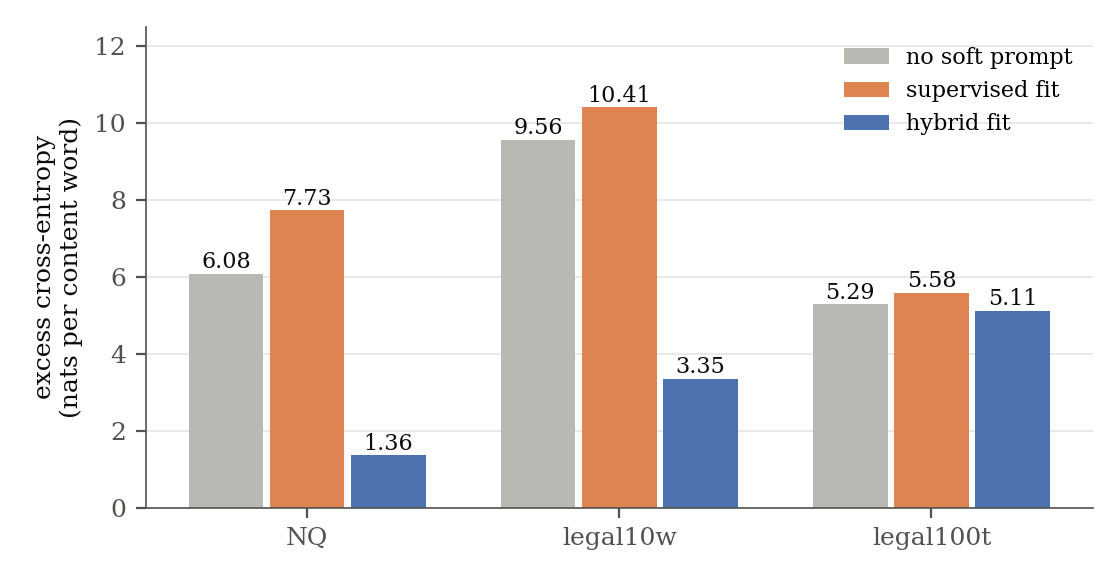
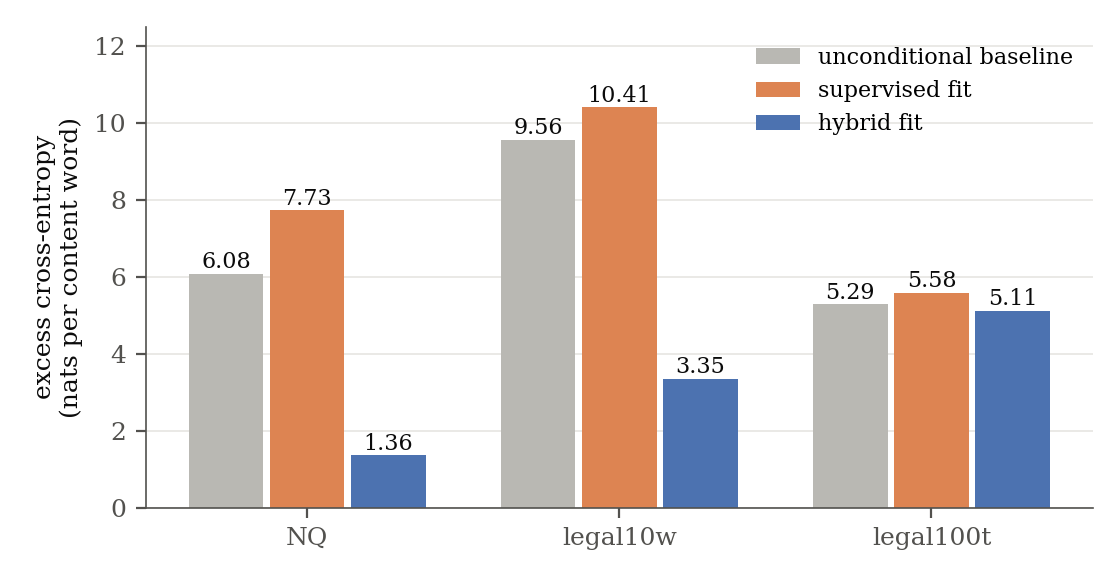
composition and decoder-prediction text rewritten, unconditional baseline named, rewriting result as a figure

Changed region(s): [[0.6562, 0.0621, 0.9688, 0.2483]]

diff --git a/chapters/ch4_weak_supervised_attack/s8_decoder_predictions.tex b/chapters/ch4_weak_supervised_attack/s8_decoder_predictions.tex
@@ -4,29 +4,29 @@ Both terms of the objective in Equation~\ref{eq:attack:loss} pull mapped states 
 The mapped states then form the soft prompt of a frozen decoder, and the decoder reconstructs the prompt one token at a time.
 The objective therefore measures agreement with hub outputs, while reconstruction depends on the decoder's predictions.
 
-To examine those predictions, the same decoder runs twice on each prompt.
-The reference run receives a soft prompt from the hub outputs of OLMo, and the mapped-state run receives a soft prompt from the mapped states of the target model.
-Both runs receive the true previous tokens, a setting called teacher forcing, and assign a probability to every candidate next token.
+To examine those predictions, each decoder runs under teacher forcing.
+The decoder receives the true previous tokens and predicts the next token.
+Cross-entropy scores that prediction, and a lower value means a better prediction of the true token.
 
-Two scores compare the runs.
-The excess cross-entropy is the cross-entropy of the true next token in the mapped-state run minus that in the reference run.
-The KL divergence from the reference run to the mapped-state run compares the two next-token distributions over all candidate tokens.
-Both scores are summed over the tokens of each word and averaged over content words, the words outside a stop-word list, across the selection prompts, the three decoders, and three fits.
-The averages are reported in nats per content word. % src: teacher_forced_run.py (lines 62-68: -logp at the true token; KL(reference || mapped) = sum q (log q - log p)); teacher_forced_summary.py (lines 82-136: per-word sums, content words, pooling over prompts, decoders, seeds)
+The decoder runs with three kinds of soft prompt.
+The reference soft prompt comes from the hub outputs of OLMo.
+The mapped soft prompt comes from the mapped states of the target model, under the supervised fit or the hybrid fit.
+The unconditional baseline has no soft prompt, so the decoder acts as a plain language model on the true previous tokens. % src: teacher_forced_run.py (arm no_memory: empty prefix, start token then true tokens)
+The excess cross-entropy of a run is its cross-entropy minus that of the reference run.
+Cross-entropy is summed over the tokens of each word and averaged over content words, the words outside a stop-word list, across the selection prompts, the three decoders, and three fits. % src: teacher_forced_run.py (lines 62-68: -logp at the true token; KL(reference || mapped) = sum q (log q - log p)); teacher_forced_summary.py (lines 82-136: per-word sums, content words, pooling over prompts, decoders, seeds)
 
-%% BIG CHANGE (2026-11-18): the section now reports the setting of the main comparison (90-row leak, alpha 0.9, tau 2d, B 8,192) on all three datasets. At that setting the hybrid fit has the lower excess cross-entropy on every dataset; the earlier reversal on legal100t (alpha 0.95, 856 rows) does not appear, so the closing sentence changed.
 \paragraph{The matching term and the decoder.} At the \vf{90}-row leak, the hybrid fit has the lower excess cross-entropy on all three datasets (Figure~\ref{fig:attack:ce}).
-The excess cross-entropy falls from \vf{7.73} nats under the supervised fit to \vf{1.36} on NQ, from \vf{10.41} to \vf{3.35} on legal10w, and from \vf{5.58} to \vf{5.11} on legal100t. % src: results/{v7_2,legal10w/v7_2,legal128w/v7_2}/main/framework/teacher_forced-w46/summary.json arms.{b90-a1-r1-L90-span9, b90-a0.9-sq-m0-t*-r1-B8192-L90-span9}.classes.content.excess_per_word (7.7341, 1.3621; 10.4136, 3.3521; 5.5825, 5.1133), 500 selection prompts, three fits pooled
-A decoder with no soft prompt has an excess cross-entropy of \vf{6.08} on NQ and \vf{9.56} on legal10w, and both values are below the supervised fit. % src: same files, arms.no_memory (6.0751, 9.5643, 5.2908)
-On legal100t the fall is small, and the hybrid fit, at \vf{5.11}, stays close to a decoder with no soft prompt, at \vf{5.29}.
-The KL divergence follows the excess cross-entropy within \vf{0.3} nats in every case. % src: same files, kl_per_word (largest difference 0.252, NQ supervised fit)
-The matching term therefore improves the decoder's next-token predictions on every dataset, and the improvement is smallest on legal100t, where word-F1 is lowest.
+The excess falls from \vf{7.73} nats per content word under the supervised fit to \vf{1.36} on NQ, from \vf{10.41} to \vf{3.35} on legal10w, and from \vf{5.58} to \vf{5.11} on legal100t. % src: results/{v7_2,legal10w/v7_2,legal128w/v7_2}/main/framework/teacher_forced-w46/summary.json arms.{b90-a1-r1-L90-span9, b90-a0.9-sq-m0-t*-r1-B8192-L90-span9}.classes.content.excess_per_word (7.7341, 1.3621; 10.4136, 3.3521; 5.5825, 5.1133), 500 selection prompts, three fits pooled
+The unconditional baseline separates the two fits.
+The supervised fit is above the baseline on every dataset, so its soft prompt predicts the true tokens worse than no soft prompt. % src: same files, arms.no_memory (6.0751, 9.5643, 5.2908)
+The hybrid fit is below the baseline on every dataset, by a wide margin on NQ and legal10w and by \vf{0.18} nats on legal100t.
+The matching term therefore improves the decoder's next-token predictions on every dataset, and least on legal100t, where word-F1 is also lowest.
 
 \begin{figure}[ht]
 \centering
 \includegraphics[width=0.8\textwidth]{ch4/cross_entropy}
 \caption{Under teacher forcing, the hybrid fit has a lower excess cross-entropy than the supervised fit on all three datasets.
-Excess cross-entropy in nats per content word at the \vf{90}-row leak, \vf{500} selection prompts, three decoders, three fits; the gray bar is a decoder with no soft prompt.
+Excess cross-entropy in nats per content word at the \vf{90}-row leak, \vf{500} selection prompts, three decoders, three fits; the gray bar is the unconditional baseline, the decoder with no soft prompt.
 Hybrid fit of the main comparison ($\alpha = 0.9$, $\tau = 2d$, $B = 8{,}192$).}
 \label{fig:attack:ce}
 \end{figure}

diff --git a/figures/scripts/make_figures.py b/figures/scripts/make_figures.py
@@ -196,33 +196,38 @@ def standard():
 
 
 def rewriting():
-    """Word-F1 before and after the second-round language model, 450 selection prompts, seed 1."""
-    files = [
-        ("NQ\n92 rows", "results/v7_2/main/framework/attacker/attacker-b10-a0.95-sq-m0-t0.1152-r1-B8192-s1-haiku.json"),
-        ("legal128w\n856 rows", "results/legal128w/v7_2/main/framework/attacker/attacker-b10-a0.95-sq-m0-t0.1297-r1-B8192-s1-haiku.json"),
-        ("legal128w\n8,612 rows", "results/legal128w/v7_2/main/framework/attacker/attacker-b100-a0.95-sq-m0-t0.1297-r1-B8192-s1-haiku.json"),
+    """Word-F1 before and after the second-round language model on legal10w, 90-row leak, 450 selection prompts."""
+    d = load("results/legal10w/v7_2/main/framework/attacker/attacker-b90-a0.9-sq-m0-t0.1476-r1-B8192-L90-span9-s1-haiku.json")
+    assert d["prompts_reported"] == 450 and d["model"].startswith("claude-haiku")
+    t = d["table"]
+    smollm = 0.6839  # SmolLM alone, recomputed from the endpoint decoding on the same 450 prompts (not stored in the file)
+    groups = [
+        ("hybrid fit", [("decoders, mean of three", INK2, t["hybrid rung B"]["word_f1"]["before"]),
+                        ("SmolLM decoder alone", "#b9b8b3", smollm),
+                        ("rewrite of one reconstruction", BLUE, t["hybrid rung A"]["word_f1"]["after"]),
+                        ("rewrite of three reconstructions", ORANGE, t["hybrid rung B"]["word_f1"]["after"])]),
+        ("mismatched-prompt control", [("decoders, mean of three", INK2, t["wrong memory rung B"]["word_f1"]["before"]),
+                                       ("rewrite of one reconstruction", BLUE, t["wrong memory rung A"]["word_f1"]["after"]),
+                                       ("rewrite of three reconstructions", ORANGE, t["wrong memory rung B"]["word_f1"]["after"])]),
     ]
-    series = [("decoders, mean of three", INK2), ("rewrite of one reconstruction", BLUE), ("rewrite of three reconstructions", ORANGE)]
-    fig, ax = plt.subplots(figsize=(5.2, 2.9))
-    width = 0.26
-    for i, (name, rel) in enumerate(files):
-        d = load(rel)
-        assert d["prompts_reported"] == 450 and d["model"].startswith("claude-haiku")
-        a, b = d["table"]["hybrid rung A"]["word_f1"], d["table"]["hybrid rung B"]["word_f1"]
-        vals = [b["before"], a["after"], b["after"]]
-        for k, ((label, color), v) in enumerate(zip(series, vals)):
-            x = i + (k - 1) * width
-            ax.bar(x, v, width * 0.92, color=color, alpha=0.85, label=label if i == 0 else None)
+    fig, ax = plt.subplots(figsize=(5.4, 2.9))
+    width, centers, seen = 0.2, [], set()
+    for i, (name, barsg) in enumerate(groups):
+        x0 = i * 1.15
+        centers.append(x0)
+        for k, (label, color, v) in enumerate(barsg):
+            x = x0 + (k - (len(barsg) - 1) / 2) * width
+            ax.bar(x, v, width * 0.92, color=color, alpha=0.9, label=None if label in seen else label)
+            seen.add(label)
             ax.annotate(f"{v:.2f}", (x, v), xytext=(0, 2), textcoords="offset points", ha="center", fontsize=8)
-        print(name.replace("\n", " "), [round(v, 4) for v in vals])
-    ax.set_xticks(range(len(files)))
-    ax.set_xticklabels([f[0] for f in files])
-    ax.set_ylim(0, 1.38)
-    ax.set_yticks([0, 0.2, 0.4, 0.6, 0.8, 1.0])
+        print(name, [round(v, 4) for _, _, v in barsg])
+    ax.set_xticks(centers)
+    ax.set_xticklabels([g[0] for g in groups])
+    ax.set_ylim(0, 1.0)
     ax.set_ylabel("word-F1")
     ax.grid(axis="y")
     ax.set_axisbelow(True)
-    ax.legend(loc="upper left", fontsize=7.5, ncol=1)
+    ax.legend(loc="upper right", fontsize=7.5)
     fig.tight_layout()
     save(fig, "ch4/rewriting")
 
@@ -236,7 +241,7 @@ def cross_entropy():
     ]
     fig, ax = plt.subplots(figsize=(5.6, 2.9))
     width, step = 0.26, 1.0
-    series = (("no soft prompt", "#b9b8b3"), ("supervised fit", SUPERVISED), ("hybrid fit", HYBRID))
+    series = (("unconditional baseline", "#b9b8b3"), ("supervised fit", SUPERVISED), ("hybrid fit", HYBRID))
     for i, (name, rel, tau) in enumerate(panels):
         arms = load(rel)["arms"]
         get = lambda key: arms[key]["classes"]["content"]["excess_per_word"]

diff --git a/chapters/ch4_weak_supervised_attack/s9_rewriting.tex b/chapters/ch4_weak_supervised_attack/s9_rewriting.tex
@@ -11,13 +11,20 @@ The language model receives no hidden state and no part of the true prompt.
 The experiment covers \vf{450} of the \vf{500} selection prompts, and the instruction was selected on the other \vf{50}. % src: same file (prompts_reported 450); attacker_run.py (selection sample: first 50 prompt ids)
 Word-F1 in this section is computed on lower-cased words without edge punctuation, so its values are not comparable with those of the other sections.
 
-%% BIG CHANGE (2026-11-18): the table is replaced by prose on its one row at the setting of the main comparison; the rows for NQ and legal100t ran at alpha 0.95 on leaks of whole prompts and are cut below, pending a rerun at 90 rows.
-\paragraph{Result.} Rewriting raises word-F1 from \vf{0.627}, the mean of the three reconstructions, to \vf{0.745}, a gain of \vf{0.117} with a \vf{95} percent interval of \vf{0.104} to \vf{0.130} from a paired bootstrap over prompts. % src: same file, table."hybrid rung B".word_f1 (0.6273, 0.7446, +0.1173 [0.1041, 0.1303]); run 2026-11-17, 4,500 calls
-SmolLM alone scores \vf{0.684}, so the gain over the best single decoder is \vf{0.06}, and that gain carries no interval. % src: per-decoder scores recomputed from the endpoint decoding on the 450 prompts (SmolLM 0.6839, OLMo 0.6176, Qwen 0.5804)
-Given one reconstruction, the language model changes word-F1 by \vf{0.003}, averaged over the three decoders. % src: same file, table."hybrid rung A".word_f1 (0.6273, 0.6305, +0.0032 [-0.0041, 0.0100])
-Rewriting therefore gains more with \vf{3} reconstructions than with \vf{1}.
-Under the mismatched-prompt control, rewriting moves word-F1 only from \vf{0.078} to \vf{0.082}, so the gain depends on the prompt's own reconstructions. % src: same file, table."wrong memory rung B".word_f1 (0.0783, 0.0817)
-Entity recall, the share of the true prompt's named entities that appear in the output, rises from \vf{0.17} to \vf{0.21}. % src: same file, table."hybrid rung B".entity_recall (0.1695, 0.2143, +0.045 [0.019, 0.074])
+\paragraph{Result.} Rewriting three reconstructions raises word-F1 from \vf{0.627}, the mean of the three decoders, to \vf{0.745} (Figure~\ref{fig:attack:rewriting}). % src: same file, table."hybrid rung B".word_f1 (0.6273, 0.7446, +0.1173 [0.1041, 0.1303]); run 2026-11-17, 4,500 calls
+The gain is \vf{0.117}, with a \vf{95} percent interval of \vf{0.104} to \vf{0.130} from a paired bootstrap over prompts.
+The figure shows three comparisons beside that gain.
+SmolLM alone scores \vf{0.684}, so rewriting also exceeds the best single decoder, by \vf{0.06}, and that gain carries no interval. % src: per-decoder scores recomputed from the endpoint decoding on the 450 prompts (SmolLM 0.6839, OLMo 0.6176, Qwen 0.5804)
+Rewriting one reconstruction leaves word-F1 at \vf{0.63}, so the gain needs all three reconstructions. % src: same file, table."hybrid rung A".word_f1 (0.6273, 0.6305, +0.0032 [-0.0041, 0.0100])
+Under the mismatched-prompt control, word-F1 stays at \vf{0.08}, so the gain depends on the prompt's own reconstructions. % src: same file, table."wrong memory rung B".word_f1 (0.0783, 0.0817)
+
+\begin{figure}[ht]
+\centering
+\includegraphics[width=0.8\textwidth]{ch4/rewriting}
+\caption{Rewriting three reconstructions raises word-F1 on legal10w from \vf{0.63} to \vf{0.74}, above the best single decoder, and adds nothing under the mismatched-prompt control.
+Word-F1 on lower-cased words without edge punctuation, \vf{450} selection prompts, hybrid fit of the main comparison at the \vf{90}-row leak, rewriting by Claude Haiku~\vf{5.5}.}
+\label{fig:attack:rewriting}
+\end{figure}
 
 % CUT 2026-11-18, pending a rerun at the 90-row leak and alpha 0.9 (the rows of the former table):
 % NQ, \vf{92} rows & \vf{0.727} & \vf{0.854} & \vf{0.861} & \vf{$+0.134$} [\vf{0.124}, \vf{0.145}] \\ % src: attacker-b10-a0.95-sq-m0-t0.1152-r1-B8192-s1-haiku.json table."hybrid rung B".word_f1 (0.7271, 0.8610, +0.1339 [0.1237, 0.1449]); SmolLM alone recomputed from the per-prompt records (0.8539)

diff --git a/chapters/ch4_weak_supervised_attack/s7_where_gain_holds.tex b/chapters/ch4_weak_supervised_attack/s7_where_gain_holds.tex
@@ -12,19 +12,23 @@ The result covers \vf{22} blind maps, one target model, and one dataset, and it 
 
 \subsection{Composition of the leak}\label{sec:attack:leak}
 
-At a fixed number of rows, a leak spread over more prompts yields a higher word-F1 than a leak drawn from \vf{2} prompts (Figure~\ref{fig:attack:shape}).%% BIG CHANGE: new sentence (2026-11-17), why the composition comparison sits on legal128w.
-The comparison runs on legal100t, the one dataset whose prompts are long enough to vary the rows per prompt at a fixed number of rows.
-%% BIG CHANGE (2026-11-18): the comparison now runs at the setting of the main comparison (alpha 0.9, tau 2d); the scores changed (2 prompts 0.178 to 0.255, stop words 0.058 to 0.115).
-At the setting of the main comparison, the hybrid fit scores \vf{0.328} with \vf{1} row from each of \vf{90} prompts, \vf{0.299} with \vf{9} consecutive rows from each of \vf{10} prompts, and \vf{0.255} with \vf{90} rows from \vf{2} prompts. % src: results/legal128w/v7_2/main/mixed-w46-std-L90-composition.json seeds.1.cells (L90-random 0.3284, L90-prefix 0.2546; supervised 0.1084, 0.0487); mixed-w46-std.json seeds.1.cells (L90-span9 0.2993; supervised 0.0938)
-The supervised fit rises with the number of prompts as well, from \vf{0.049} to \vf{0.108}, so the gain from matching stays near \vf{0.21} for all three leaks.
+A leak of \vf{90} rows can come from few prompts or from many.
+Three such leaks are compared on legal100t, the one dataset whose prompts are long enough to supply \vf{90} rows from \vf{2} prompts.
+The first leak takes \vf{90} rows from \vf{2} prompts, the second takes \vf{9} rows from each of \vf{10} prompts, and the third takes \vf{1} row from each of \vf{90} prompts.
+Both fits score higher as the leak spreads over more prompts (Figure~\ref{fig:attack:shape}).
+The hybrid fit scores \vf{0.255}, \vf{0.299}, and \vf{0.328}, and the supervised fit scores \vf{0.049}, \vf{0.094}, and \vf{0.108}. % src: results/legal128w/v7_2/main/mixed-w46-std-L90-composition.json seeds.1.cells (L90-random 0.3284, L90-prefix 0.2546; supervised 0.1084, 0.0487); mixed-w46-std.json seeds.1.cells (L90-span9 0.2993; supervised 0.0938)
+The gain from matching therefore stays near \vf{0.21} for all three leaks.
+
 The content of the rows also matters.
-A leak of one repeated word leaves the hybrid fit at the level of the supervised fit, \vf{0.061} against \vf{0.057}, and a leak of stop words reaches \vf{0.115} against \vf{0.056}. % src: same file, cells L90-one_word (0.0611, 0.0568), L90-stop (0.1149, 0.0555)
-The comparison does not separate the number of prompts from the content of the particular prompts drawn.
+Two further leaks of \vf{90} rows carry little content, one of stop words and one of a single repeated word.
+With stop words, the hybrid fit reaches \vf{0.115} against \vf{0.056} for the supervised fit.
+With one repeated word, the two fits are level, at \vf{0.061} and \vf{0.057}. % src: same file, cells L90-one_word (0.0611, 0.0568), L90-stop (0.1149, 0.0555)
+Each leak is drawn once, so the comparison does not separate the number of prompts from the content of the particular prompts drawn.
 
 \begin{figure}[ht]
 \centering
 \includegraphics[width=0.8\textwidth]{ch4/leak_shape}
-\caption{With \vf{90} leaked rows on legal100t, the hybrid fit scores \vf{0.25} for a leak from \vf{2} prompts and \vf{0.30} to \vf{0.33} for a leak spread over \vf{10} or \vf{90} prompts.
+\caption{With \vf{90} leaked rows on legal100t, both fits score higher when the leak is spread over more prompts, and the gain from matching stays near \vf{0.21}.
 Word-F1 averaged over three decoders, \vf{500} selection prompts, hybrid fit of the main comparison ($\alpha = 0.9$, $\tau = 2d$, $B = 8{,}192$).
 Each bracket gives the gain of the hybrid fit.}
 \label{fig:attack:shape}

diff --git a/chapters/ch4_weak_supervised_attack/s4_main_result.tex b/chapters/ch4_weak_supervised_attack/s4_main_result.tex
@@ -3,7 +3,6 @@
 Unpaired matching more than doubles reconstruction word-F1 on all three datasets (Table~\ref{tab:attack:main}).
 On the \vf{4{,}500} held-out prompts, with a leak of \vf{90} rows, word-F1 on NQ rises from \vf{0.354} under the supervised fit to \vf{0.766} under the hybrid fit, a gain of \vf{0.411}. % src: results/v7_2/main/w46-confirmation-s{1,2,3}.json; results/legal128w/v7_2/main/w46-confirmation-s{1,2,3}.json (means of three seeds); interval computed from results/{v7_2,legal128w/v7_2}/main/mixed-v7_9/confirmation/*/decoding.jsonl (per-prompt word-F1 averaged over three decoders and three seeds; paired bootstrap over 4,500 prompts, 2,000 resamples, seed 20261113) ; results/legal10w/v7_2/main/w46-confirmation-s{1,2,3}.json (supervised 0.1917, hybrid 0.5991; per seed 0.2229, 0.1989, 0.1532 and 0.6028, 0.5952, 0.5993); interval computed from results/legal10w/v7_2/main/mixed-v7_9/confirmation/*/decoding.jsonl (per-prompt word-F1 averaged over three decoders and three seeds; paired bootstrap over 4,500 prompts, 2,000 resamples, seed 20261113: +0.4074 [0.4033, 0.4118])
 The gains on legal10w and legal100t are \vf{0.407} and \vf{0.219}.
-%% BIG CHANGE: new sentence (2026-11-17), the reading that orders the datasets; it restates the three gains and the exposure stated in the setup.
 The two datasets of short prompts gain about \vf{0.41}, and legal100t, where \vf{9} rows expose only the opening words of a prompt, gains about half as much.
 Both fits receive the same leak, so the gain comes from the two unpaired pools.
 
